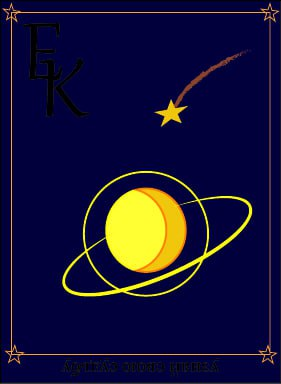
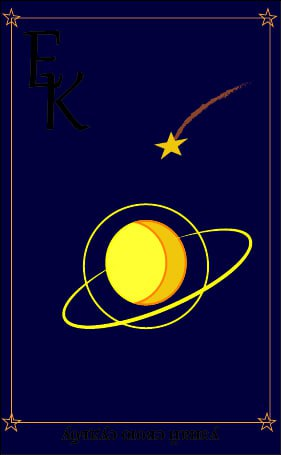
chg card background + card size

diff --git a/styles.css b/styles.css
@@ -30,12 +30,12 @@ h2 {
     grid-template-columns: repeat(4, 60px);
     /* grid-template-columns: repeat(auto-fit, minmax(110px, 1fr)); */
     gap: 10px;
-    margin-top: 20px;
+    margin-top: 5px;
 }
 
 .card {
     width: 60px;
-    height: 110px;
+    height: 100px;
     /* background-color: #010e01; */
     background-image: url('./images/card_background.jpg');
     background-size: contain;
